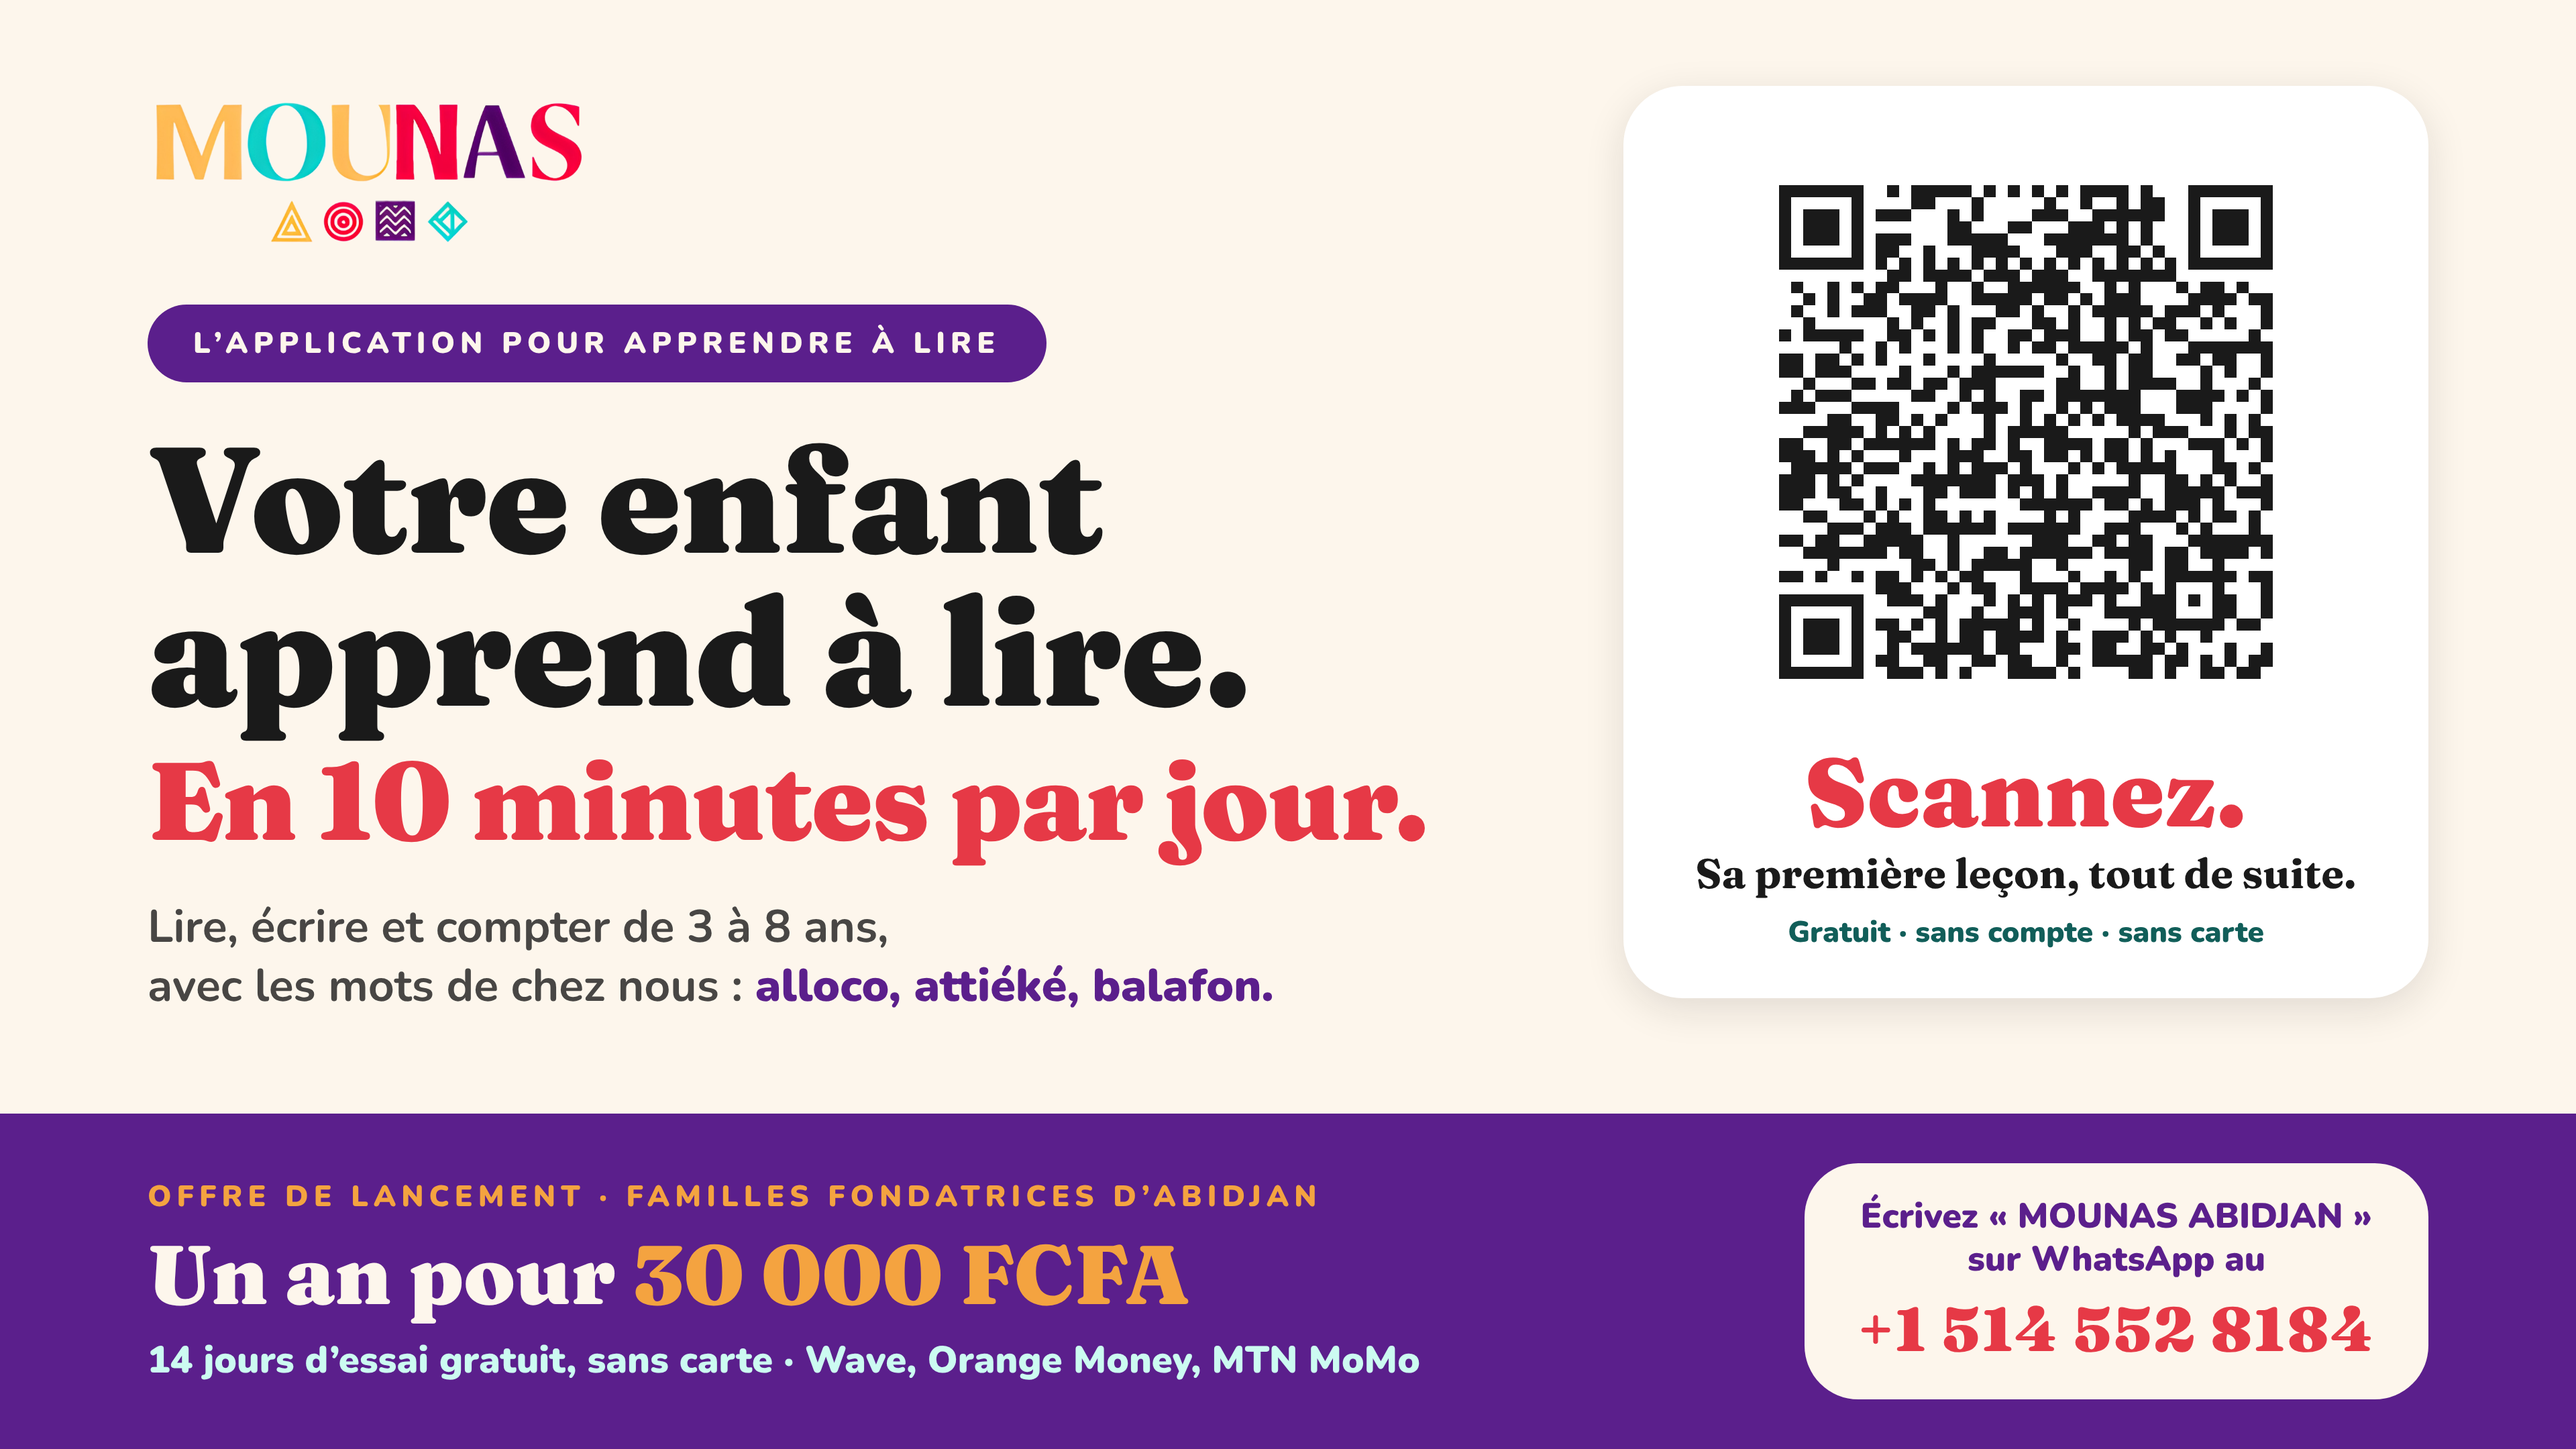
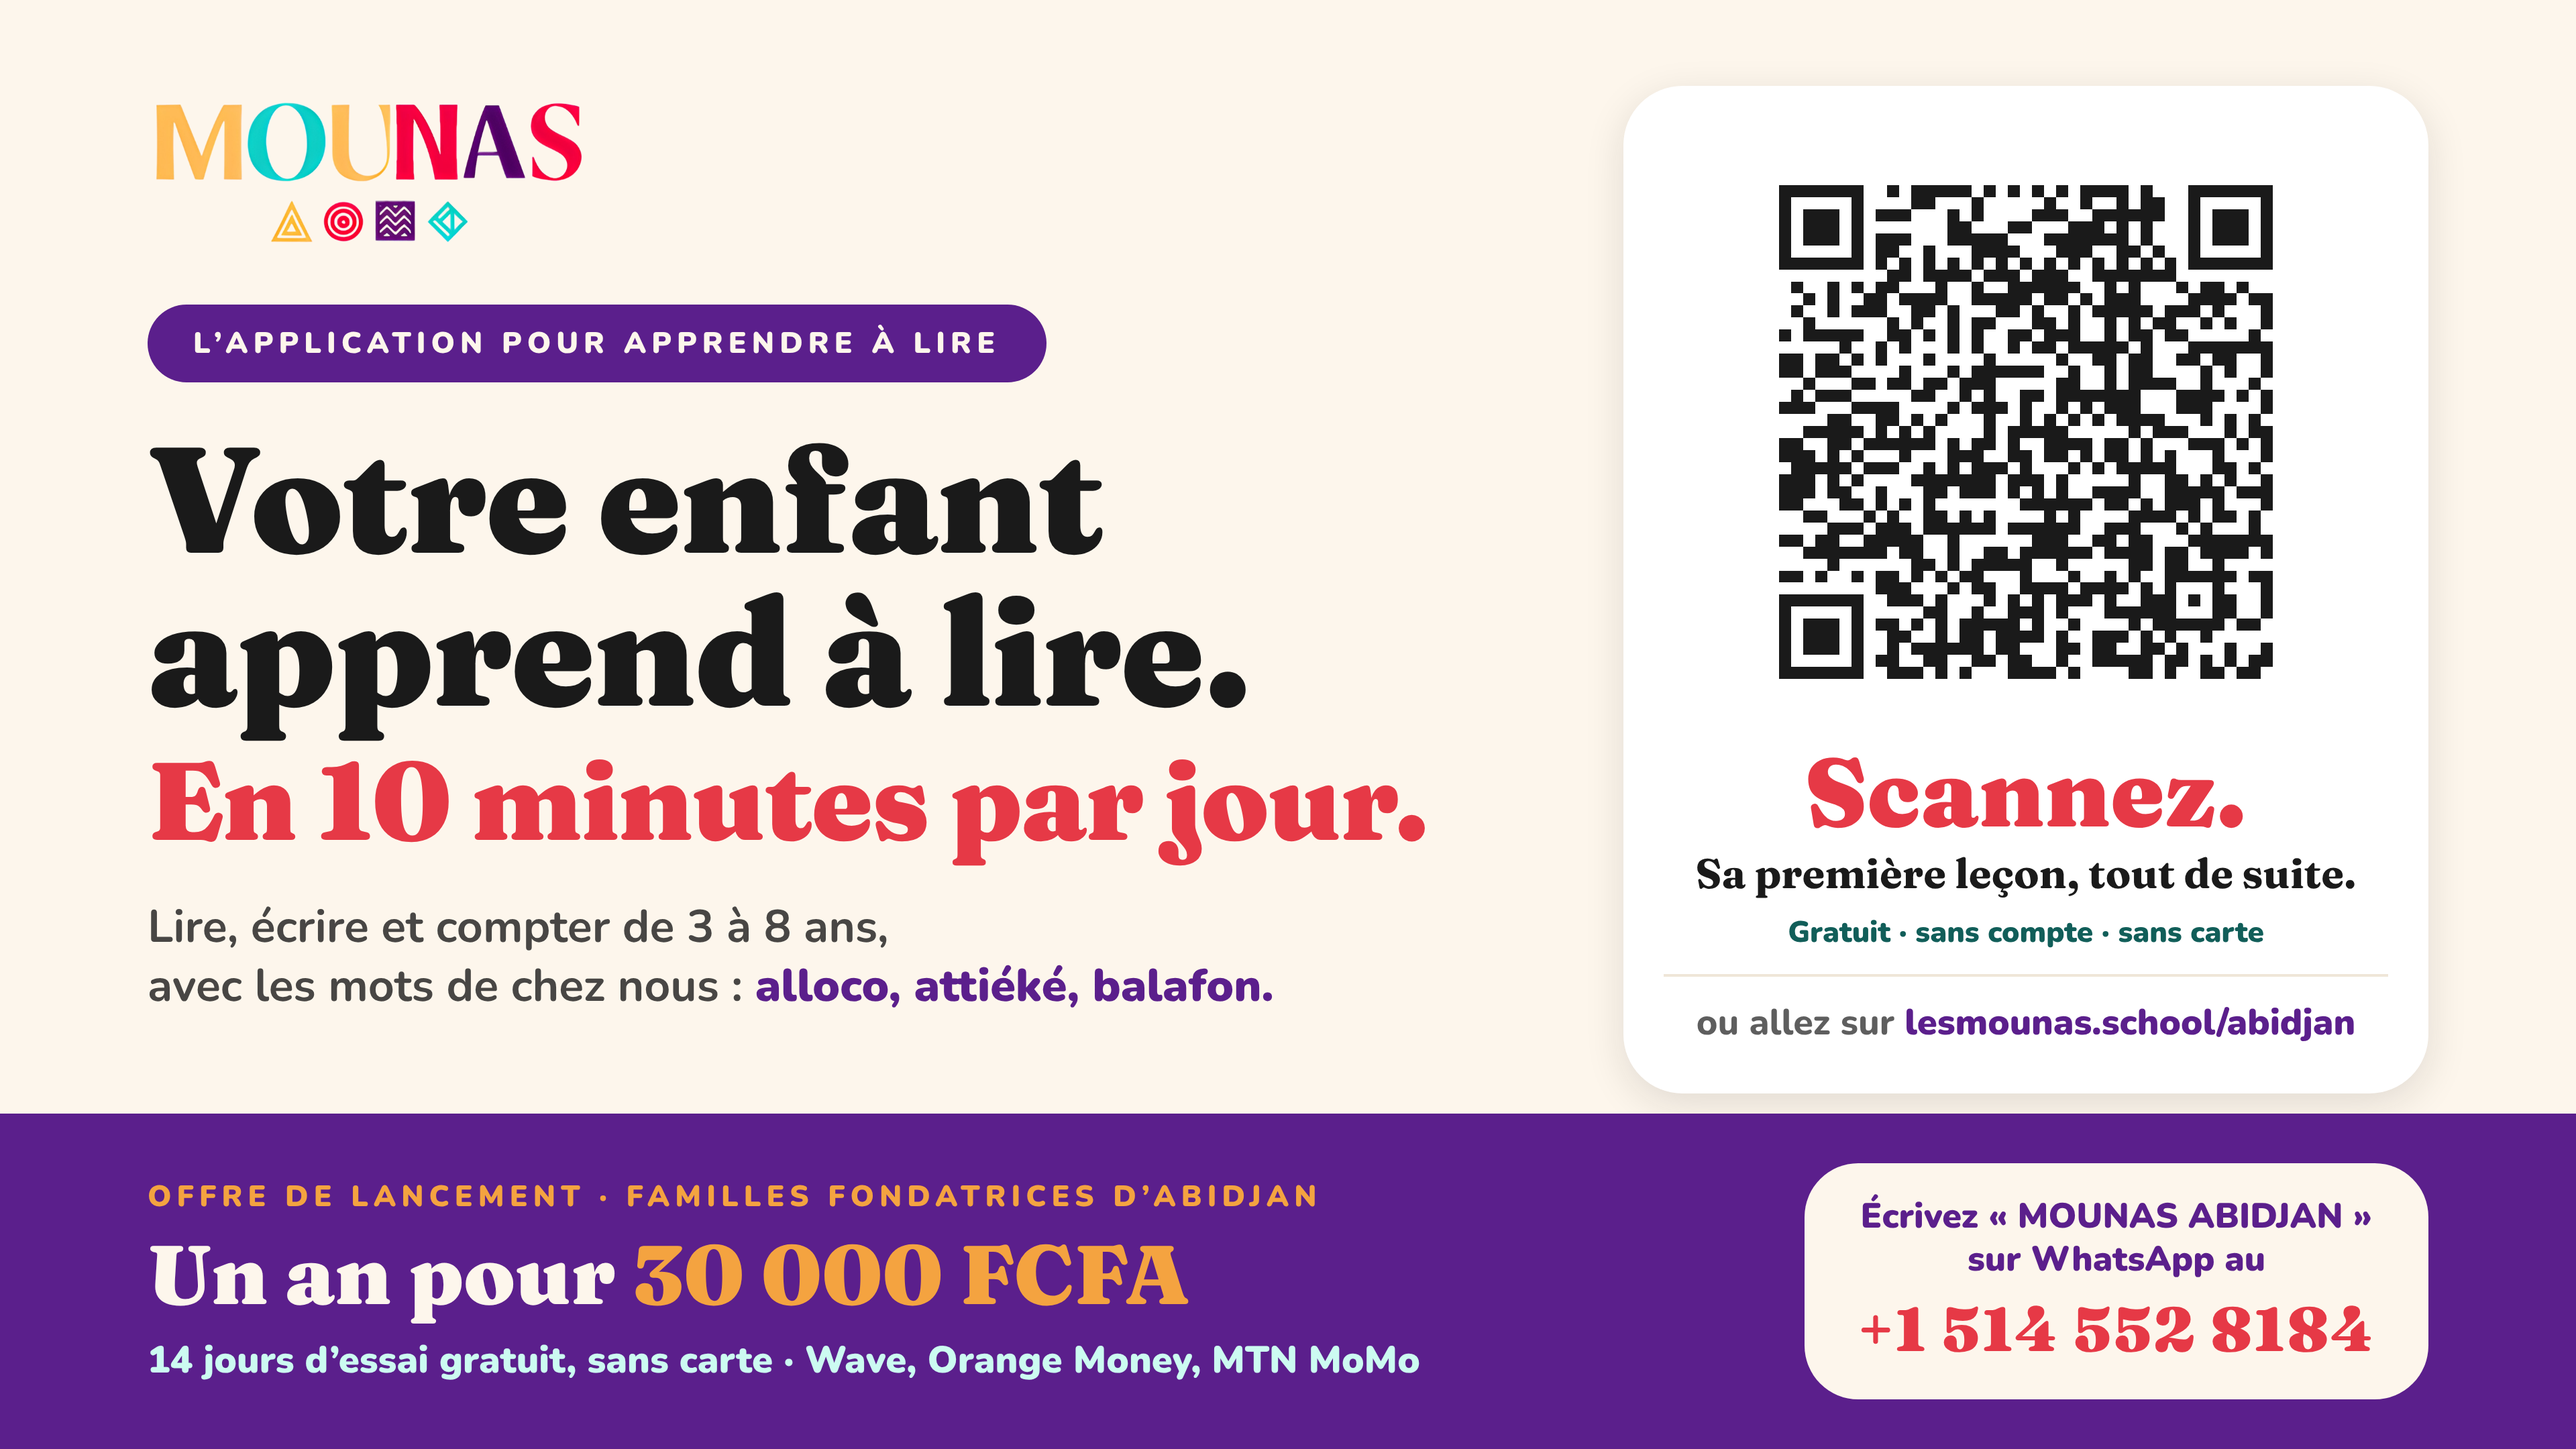
Abidjan : adresse lesmounas.school/abidjan sur l'écran, et /Abidjan ou /ABIDJAN redirigent vers /abidjan
Claude-Session: https://claude.ai/code/session_0143rL8T6ko9fU7wtpPznjKR

Changed region(s): [[0.625, 0.6514, 0.9375, 0.7134]]

diff --git a/src/proxy.ts b/src/proxy.ts
@@ -39,6 +39,17 @@ function paywall(req: NextRequest): NextResponse {
 export async function proxy(req: NextRequest) {
   const { pathname, searchParams } = req.nextUrl;
 
+  // 0. /Abidjan, /ABIDJAN… as people type the printed address. An exact,
+  // case-sensitive check: next.config redirects ignore case and would loop.
+  if (!pathname.startsWith('/app')) {
+    if (pathname !== '/abidjan' && pathname.toLowerCase() === '/abidjan') {
+      const url = req.nextUrl.clone();
+      url.pathname = '/abidjan';
+      return NextResponse.redirect(url);
+    }
+    return NextResponse.next();
+  }
+
   // 1. Arriving from Stripe Checkout.
   const checkoutId = pathname === '/app/bienvenue' ? searchParams.get('session_id') : null;
   if (checkoutId) {
@@ -98,5 +109,5 @@ export async function proxy(req: NextRequest) {
 }
 
 export const config = {
-  matcher: ['/app/:path*'],
+  matcher: ['/app/:path*', '/abidjan', '/Abidjan', '/ABIDJAN'],
 };
